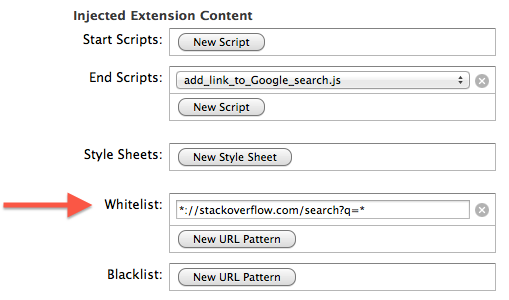
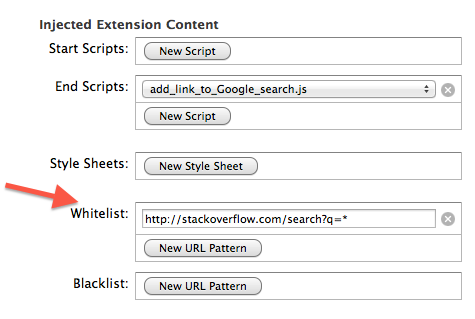
[r] Refactoring js code. [*] Updated documentation

Changed region(s): [[0.0, 0.57, 0.9726, 0.99], [0.0589, 0.03, 0.9726, 0.42], [0.0884, 0.45, 0.9726, 0.57]]

diff --git a/add_link_to_Google_search.js b/add_link_to_Google_search.js
@@ -1,27 +1,65 @@
-// <div class="search-results">
-//         <div class="page-description">
-//             <p>Your search returned no matches.</p>
-//                 </div>
-//     <p>Search on <a href="http://www.google.com/query">Google</a></p></div>
 
-	
+  
+// We are not using jQuery for DOM manipulation because:
+//  - not possible to load and use jQuery in a Safari extension
+//  - performance reason: we don't want to load it on each whitelisted website
+
+
+
+
+function new_node_to_insert_on_web_page() {
+	var newElement = document.createElement("p");
+	newElement.innerHTML = "Search with <a href='https://www.google.com/search?q=site: " + window.location.hostname + " " + text_of_search_query_stackoverflow() + "'>Google</a>.";
+
+	return newElement;
+}
+
+
+
+/////////////////////
+
+/* stackoverflow.com
+
+ Whitelist: http://stackoverflow.com/search?q=*
+
+ Nodes for no search results:
+ <div class="search-results">
+         <div class="page-description">
+             <p>Your search returned no matches.</p>
+                 </div>
+*/
+
+
+function is_a_search_page_with_no_results_stackoverflow() {
 	var result = document.getElementsByClassName('search-results')[0];
-	
 	
 	if (result == undefined) {
 		// Probably was not a search page
 		// You might want to check the white list
-		exit;
-	} else {
-		// Should check for content if results were found
-
-		// *://stackoverflow.com/search?q=*
-		if (result.children[0].children[0].innerText == "Your search returned no matches.") {
-			textOfSearchQuery = document.getElementsByName('q')[0].value;
-			
-			var newElement = document.createElement("p");
-			newElement.innerHTML = "Search with <a href='https://www.google.com/search?q=site: " + window.location.hostname + " " + textOfSearchQuery + "'>Google</a>.";
-			
-			result.children[0].appendChild(newElement);
-		}
+		return false;
 	}
+
+	// Should check for content if results were found
+	if (result.children[0].children[0].innerText == "Your search returned no matches.") {
+		return true;
+	}
+
+	return false;
+}
+
+
+function text_of_search_query_stackoverflow() {
+	return document.getElementsByName('q')[0].value;
+}
+
+
+function node_where_to_append_new_node_as_a_child_stackoverflow() {
+	return document.getElementsByClassName('search-results')[0].children[0];
+}
+
+//////////////		
+// alert("Google Search If No Local Result extension loaded.");
+
+if (is_a_search_page_with_no_results_stackoverflow()) {
+	node_where_to_append_new_node_as_a_child_stackoverflow().appendChild(new_node_to_insert_on_web_page());
+}

diff --git a/README.md b/README.md
@@ -55,9 +55,11 @@ For example: `*.stackoverflow.com`
 This tell Safari to load this extension when visiting the host name.
     
 - Add a New URL Pattern to the Whitelist to whitelist the search pages.  
-For example: `*://stackoverflow.com/search?q=*`  
+For example: `http://stackoverflow.com/search?q=*`  
 ![Screenshot example](./documentation_images/New_URL_Pattern_In_Injected_Extension_Content_Whitelist.png)  
-This tell Safari to only load this extension when visiting a search page
+This tell Safari to only load this extension when visiting a search page  
+*Note that as per the documentation, the wildcard * can not be used in the scheme.*  
+**BUG: As per my testing, the whitelist does not work as expected. Ie, only having this in the whitelist: `http://stackoverflow.com/search?q=*`, the extension is still loaded on `stackoverflow.com` or `http://stackoverflow.com/tags`.**
 
 - Implement the 3 functions to search and manipulate the DOM tree:  
   detect if user is visiting a search result page with no results found: `is_a_search_page_with_no_results_DOMAIN()`,  
@@ -76,7 +78,7 @@ Thank you!
 
 ## Authors
 
-Guillaume Cerquant, founder of [Courrier-App](http://www.courrier-app.fr "Envoi de recommandés par internet") and [MacMation](http://www.macmation.com "Mac Automation").
+Guillaume Cerquant, founder of [Courrier-App](http://www.courrier-app.fr "Envoi de recommandés par internet") and [MacMation](http://www.macmation.com "Mac Automation"). Twitter account: [@gcerquant](http://www.twitter.com/gcerquant "Guillaume Cerquant's twitter account").
 
 ## Contributors
 
